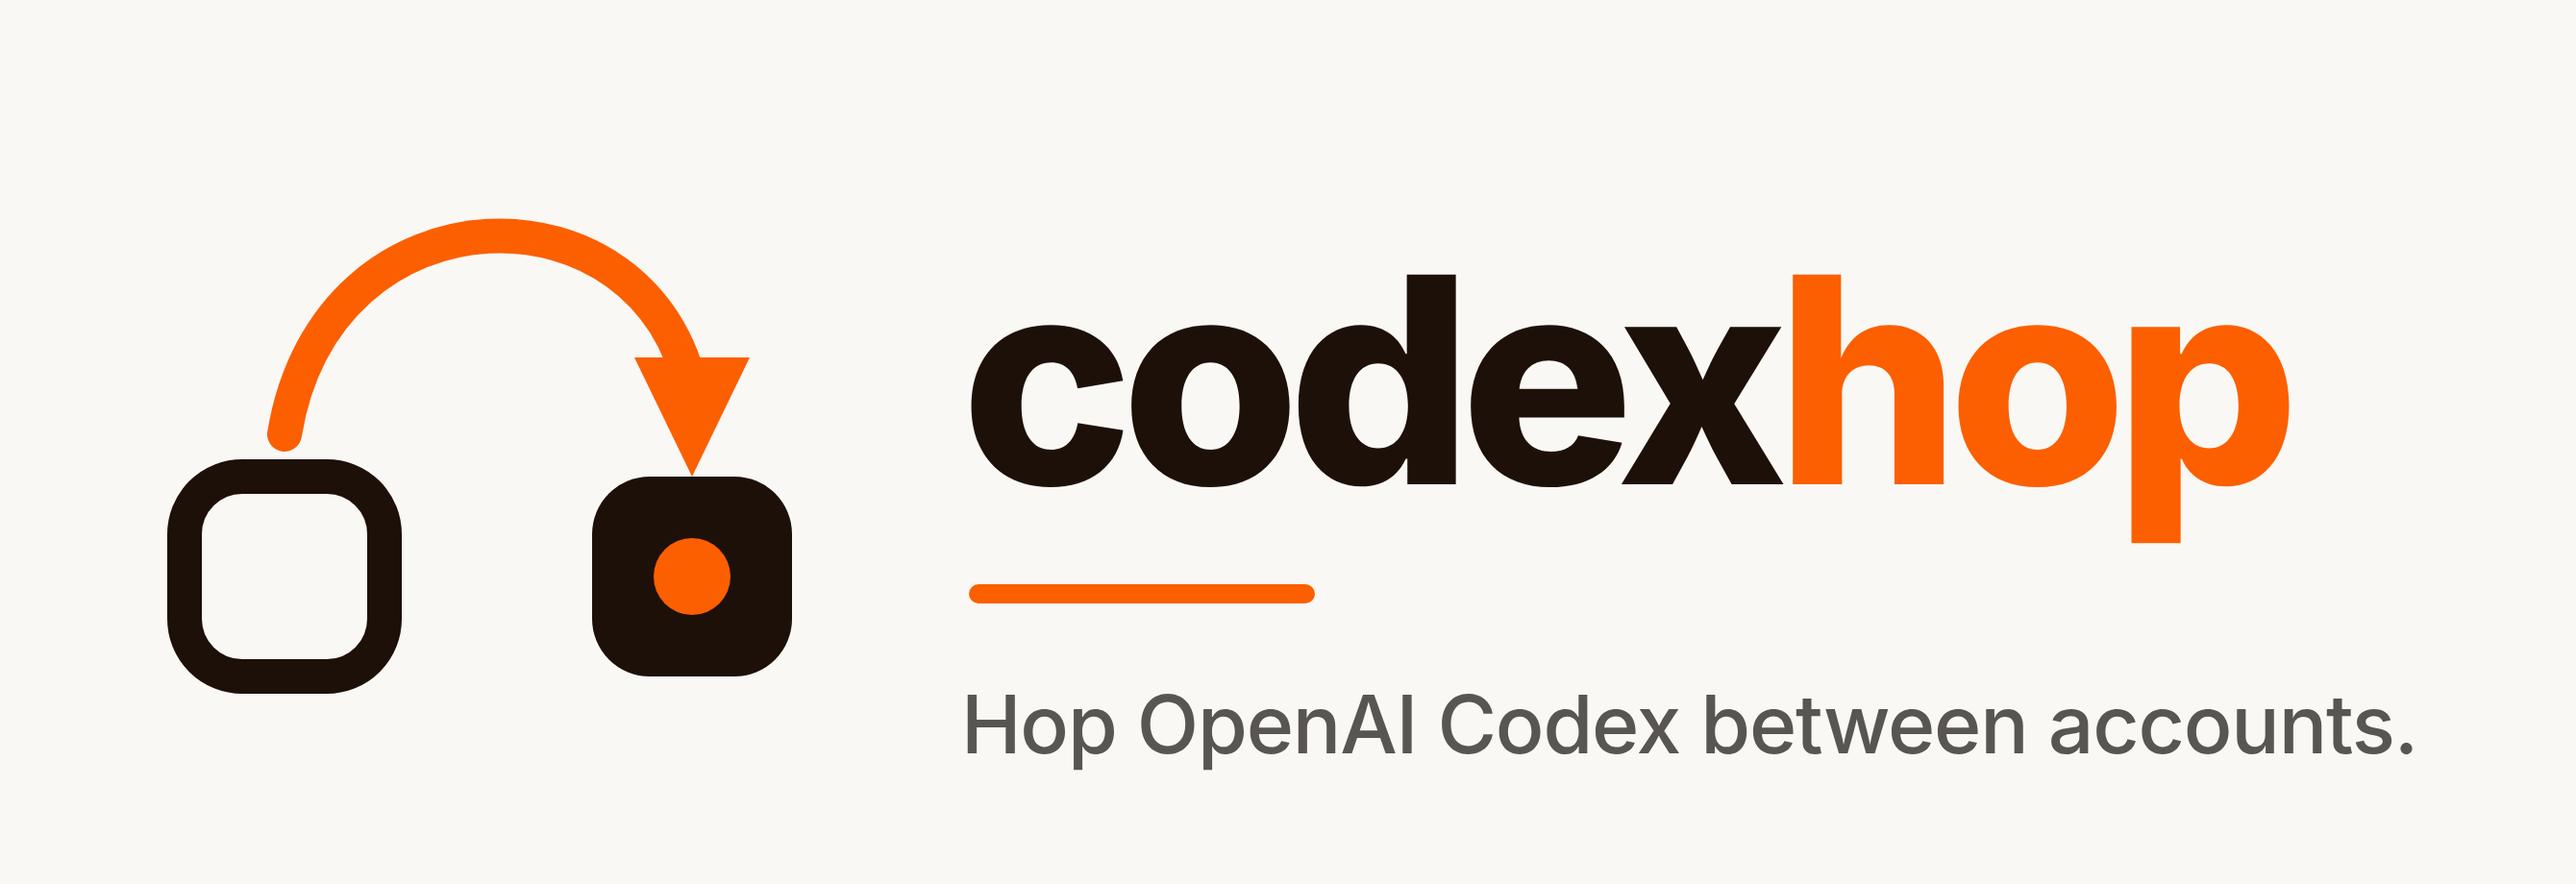
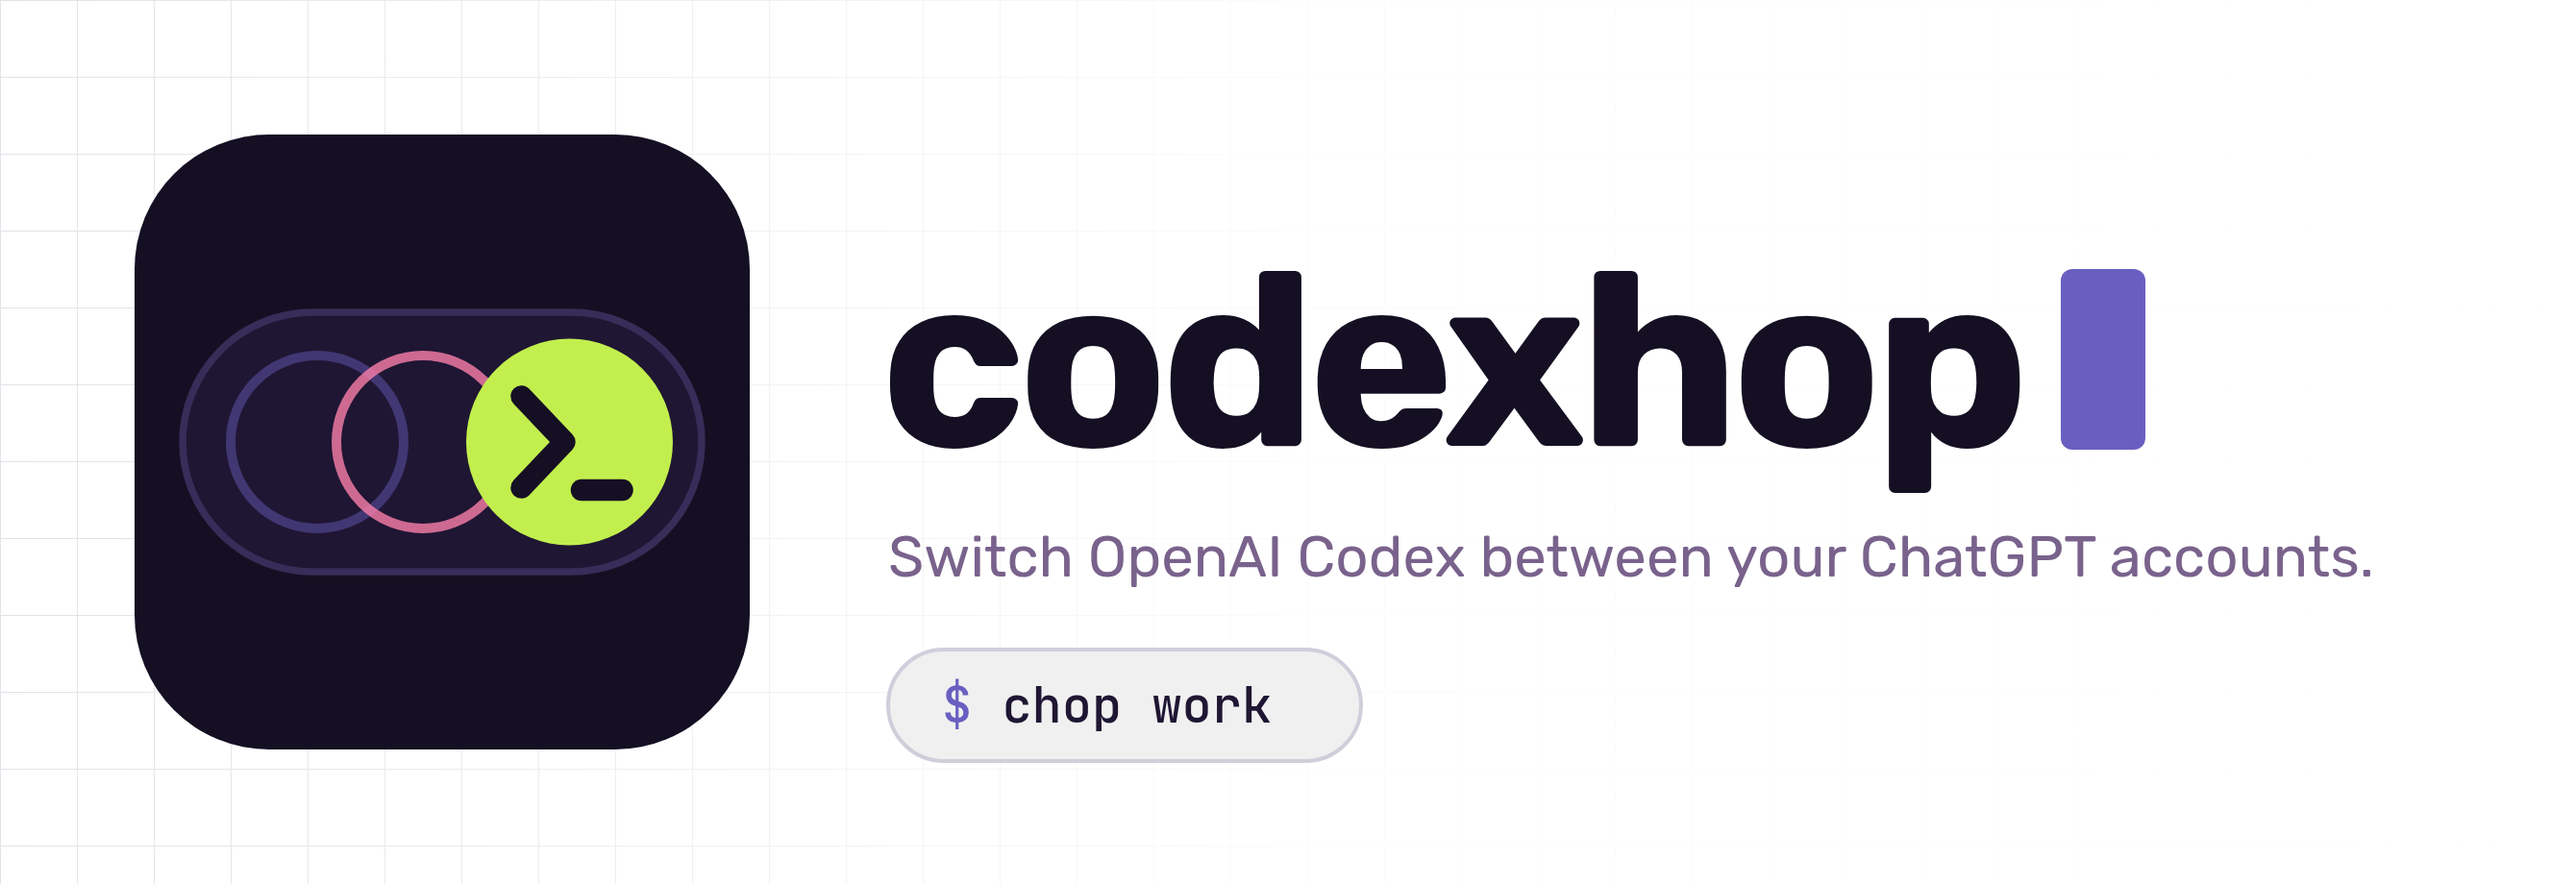
Give codexhop its own identity instead of claudehop's
A new mark: a switch whose knob is a terminal prompt (>_), with the accounts it hopped past as rings behind it, in a midnight violet, lime and pink palette taken whole from one reference system. The cover is light, with the dark mark as the logo; logo.svg, logo.png and icon-256.png are new, and the README badges follow the palette and show the PyPI version.

Changed region(s): [[0.031, 0.1522, 0.3097, 0.8522], [0.3407, 0.3043, 0.9291, 0.7], [0.3407, 0.7304, 0.9291, 0.8826]]

diff --git a/README.md b/README.md
@@ -1,12 +1,13 @@
 <p align="center">
-  <img src="https://raw.githubusercontent.com/psychofict/codexhop/main/assets/cover.png" alt="codexhop: hop OpenAI Codex between ChatGPT accounts" width="820">
+  <img src="https://raw.githubusercontent.com/psychofict/codexhop/main/assets/cover.png" alt="codexhop: switch OpenAI Codex between your ChatGPT accounts" width="820">
 </p>
 
 <p align="center">
+  <a href="https://pypi.org/project/codexhop/"><img src="https://img.shields.io/pypi/v/codexhop?color=6a5fc1" alt="PyPI version"></a>
   <a href="https://github.com/psychofict/codexhop/actions/workflows/ci.yml"><img src="https://github.com/psychofict/codexhop/actions/workflows/ci.yml/badge.svg" alt="CI"></a>
-  <a href="https://github.com/psychofict/codexhop/blob/main/LICENSE"><img src="https://img.shields.io/badge/licence-MIT-FC5F00" alt="MIT licence"></a>
-  <img src="https://img.shields.io/badge/python-3.9%2B-FC5F00" alt="Python 3.9 or newer">
-  <img src="https://img.shields.io/badge/dependencies-none-FC5F00" alt="No dependencies">
+  <a href="https://github.com/psychofict/codexhop/blob/main/LICENSE"><img src="https://img.shields.io/badge/licence-MIT-6a5fc1" alt="MIT licence"></a>
+  <img src="https://img.shields.io/badge/python-3.9%2B-6a5fc1" alt="Python 3.9 or newer">
+  <img src="https://img.shields.io/badge/dependencies-none-6a5fc1" alt="No dependencies">
 </p>
 
 codexhop lets you use several ChatGPT accounts with OpenAI Codex on one machine,
